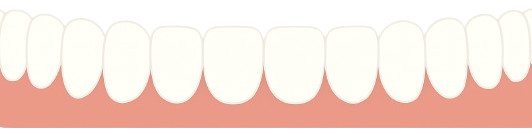
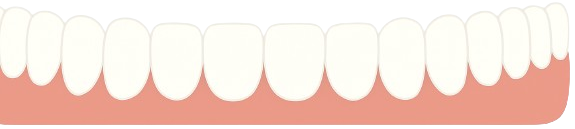
Update teeth images & Fix recent toothbruhsing

diff --git a/frontend/src/App.tsx b/frontend/src/App.tsx
@@ -38,7 +38,12 @@ function App() {
 
   useEffect(() => {
     if (toothbruhsings && toothbruhsings.length > 0) {
-      setRecentToothBruhsing(toothbruhsings[0]);
+      const recent = toothbruhsings.sort(
+        (a, b) =>
+          Number(b.content.fields.timestamp) -
+          Number(a.content.fields.timestamp)
+      )[0];
+      setRecentToothBruhsing(recent);
     }
   }, [toothbruhsings]);
 
@@ -148,7 +153,10 @@ function App() {
             </div>
             <div className="flex flex-col justify-center items-center -space-y-5">
               {isTeethClean ? (
-                <img className="h-60 w-full z-10" src="/clean-up.png" />
+                <img
+                  className="h-60 w-full z-10 object-cover object-top"
+                  src="/clean-up.png"
+                />
               ) : (
                 <img
                   className="h-60 w-full z-10 object-cover object-top"
@@ -187,7 +195,10 @@ function App() {
               <div className="relative">
                 {isTeethClean ? (
                   <div>
-                    <img className="h-60 w-full z-10" src="/clean-down.png" />
+                    <img
+                      className="h-60 w-full z-10 object-cover object-bottom"
+                      src="/clean-down.png"
+                    />
                     <div className="absolute top-0 left-0 flex justify-center items-center h-full w-full">
                       <div className="text-4xl font-bold">
                         <span className="text-amber-700 ">
